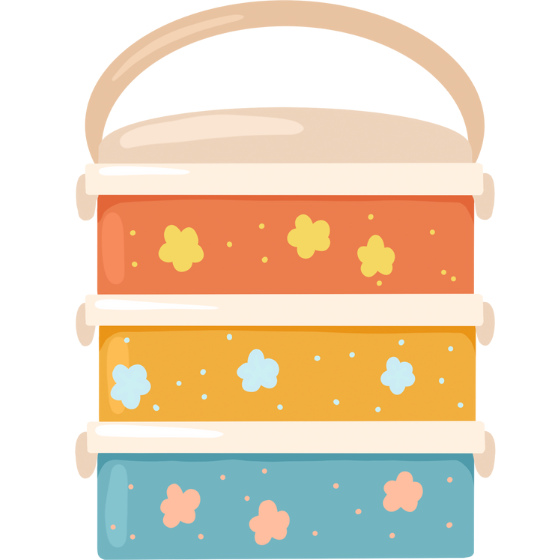
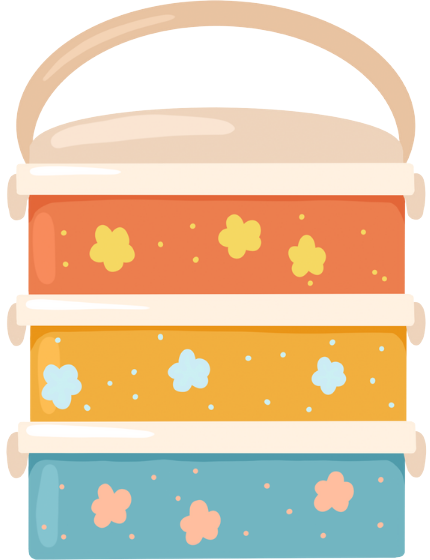
lunchimg

diff --git a/Cabriot-main/eat.html b/Cabriot-main/eat.html
@@ -214,6 +214,7 @@
     </div>
 
 
+    <!--  Bulk Order Section-->
     <section class="masthead about-cabriot" style="padding-top: 5rem; background-color: #ffffff;">
         <div class="container px-5">
             <div class="row gx-5 align-items-center reverse-columns">
@@ -251,13 +252,15 @@
     </section>
 
 
+
+    <!-- Three Coloum Section-->
     <section class="masthead home-background pt-5 pb-5" style="background-position: 0 0; background-color:#F8F9FA;">
         <div class="container py-0 px-4">
             <div class="row gx-5 ">
                 <div class="col-lg-4 mb-4 mb-lg-0" style="padding-right: calc(var(--bs-gutter-x) * 0.5); padding-left:calc(var(--bs-gutter-x) * 0.5)" >
                     <div>
                         <img src="./assets/img/1.png" alt="Logo 1" class="img-fluid mb-3 me-sm-0"
-                            style="height: 5rem; width: 5rem;">
+                            style="height: 5rem; width: 4rem;">
                     </div>
                     <h3 >Office Lunch</h3>
                     <p style="font-weight: 400;">Embrace eco-friendly dining with Cabriot Eat’s office lunch in a tiffin box.</p>
@@ -286,6 +289,7 @@
     
 
 
+    <!--Kitche  Section-->
     <section class="masthead about-cabriot" style="padding-top: 3rem; background-color: #ffffff;">
         <div class="container px-5">
             <div class="row gx-5 align-items-center">
@@ -311,6 +315,8 @@
         </div>
     </section>
 
+
+    <!-- Second 3 Coloum Section-->
     <section class="masthead home-background pt-5 pb-5" style="background-position: 0 0; background-color:#F8F9FA;">
         <div class="container py-0 px-4">
             <div class="row gx-5 ">
@@ -348,11 +354,7 @@
     </section>
     
     
-
-
-
-
-
+    <!-- Menu Section-->
     <section class="masthead about-cabriot" style="padding-top: 3rem; background-color: #ffffff;">
         <div class="container px-5">
             <div class="row gx-5 align-items-center reverse-columns">
@@ -372,6 +374,8 @@
         </div>
     </section>
 
+
+    <!-- Third 3 Coloum Section-->
     <section class="masthead home-background pt-5 pb-5" style="background-position: 0 0; background-color:#F8F9FA;">
         <div class="container py-0 px-4">
             <div class="row gx-5 ">
@@ -406,6 +410,7 @@
     </section>
     
 
+    <!-- Refining Magic section-->
     <section class="masthead about-cabriot" style="padding-top: 3rem; background-color: #ffffff;">
         <div class="container px-5">
             <div class="row gx-5 align-items-center reverse-columns">
@@ -433,8 +438,7 @@
 
 
 
-    <!-- End-->
-
+    <!-- Cetification and Hygen Section-->
     <section class="masthead home-background" style=" background-color: #F8F9FA; background-position: 0 0; padding-top:5rem">
         <div class="container px-5" >
             <div class="row gx-5 align-items-center ">
@@ -466,7 +470,7 @@
 
 
 
-
+    <!-- Footer Contact Form-->
     <section id="contactFormSection" class="bg-white" style="padding-top: 5rem; padding-bottom:5rem">
         <div class="container d-flex justify-content-center align-items-center">
             <div class="row justify-content-center w-100">
@@ -556,6 +560,9 @@
     <a href="https://wa.me/+918714858555" class="whatsapp_float" target="_blank" rel="noopener noreferrer">
         <i class="fa fa-whatsapp whatsapp-icon"></i>
     </a>
+    <!-- End Of Eat Page Section-->
+
+
     <!-- Feedback Modal-->
     <div class="modal fade" id="feedbackModal" tabindex="-1" aria-labelledby="feedbackModalLabel" aria-hidden="true">
         <div class="modal-dialog modal-dialog-centered">
@@ -739,161 +746,6 @@
                     }, 3000);
                 });
         });
-
-       
-
-
-        /*contform.addEventListener('submit', function (e) {
-            e.preventDefault();
-
-            const full_name = document.getElementById('Full_name').value;
-            const mobile_no = document.getElementById('mobile_no').value;
-            const location = document.getElementById('location').value;
-            const email = document.getElementById('email').value;
-            const type_of_service = document.getElementById('type_of_service').value;
-            const message = document.getElementById('message').value;
-
-            const body = `
-          <b>FullName : </b>${full_name}
-          <br/>
-          <b>Email : </b>${email} 
-          <br/>
-          <b>mobile No : </b>${mobile_no}
-          <br/>
-          <b>Location : </b>${location}
-          <br/>
-          <b>Type of Service : </b>${type_of_service}
-          <br>
-          <b>Message : </b>${message}
-          <br>
-        `;
-
-            // Display loading message while submitting
-            const formresult = document.getElementById('form-result'); // Assuming you have an element with this ID
-            formresult.innerHTML = "Please wait...";
-            formresult.style.textAlign = "center";
-
-            Email.send({
-                SecureToken: "5af1ed71-f4ed-419f-b932-f4ec2fb66ab6",  
-                To: 'shebin@wolfpackdigi.com',
-                From: "shebin@wolfpackdigi.com",
-                Subject: "Welcome to Wolfpack",
-                Body: body
-            }).then(
-                message => {
-                    formresult.innerHTML = "Form Submitted Successfully ";
-                    // Reset form and hide result after 3 seconds
-                    contform.reset();
-                    setTimeout(() => {
-                        formresult.innerHTML = ""
-                        result.style.display = "none";
-                    }, 3000);
-                },
-                error => {
-                    console.log(error);
-                    result.innerHTML = "Error sending message!";
-                }
-            );
-        });
-
-        formSubmit.addEventListener('submit', function (e) {
-            e.preventDefault();
-
-            const name = document.getElementById('name').value;
-            const mobile = document.getElementById('phone').value;
-            const mail = document.getElementById('mail').value;
-            const contmessage = document.getElementById('contmessage').value;
-
-            const body = `
-          <b>FullName : </b>${name}
-          <br/>
-          <b>Email : </b>${mail} 
-          <br/>
-          <b>mobile No : </b>${mobile}
-          <br/>
-          <b>Message : </b>${contmessage}
-          <br>
-        `;
-
-            // Display loading message while submitting
-            const messagePara = document.createElement('p');
-            messagePara.textContent = "Please wait...";
-            messagePara.style.textAlign = "center";
-
-            // Assuming you have a container element with ID 'nav-result'
-            const navresult = document.getElementById('nav-result');
-
-            // Display loading message while submitting
-            navresult.appendChild(messagePara);
-
-            Email.send({
-                SecureToken: "5af1ed71-f4ed-419f-b932-f4ec2fb66ab6",  // Replace with your actual secure token
-                To: 'shebin@wolfpackdigi.com',
-                From: "shebin@wolfpackdigi.com",
-                Subject: "Welcome to Wolfpack",
-                Body: body
-            }).then(
-                message => {
-                    messagePara.textContent = "Form Submitted Successfully ";
-                    // Reset form and hide result after 3 seconds (optional)
-                    formSubmit.reset();
-                    setTimeout(() => {
-                        messagePara.style.display = "none";
-                    }, 3000);
-                },
-                error => {
-                    messagePara.textContent = "Error sending message!";
-                }
-            );
-        });
-*/
-        /*formSubmit.addEventListener('submit', function (e) {
-            e.preventDefault();
-
-            const full_name = document.getElementById('name').value;
-            const mobile_no = document.getElementById('phone').value;
-            const email = document.getElementById('mail').value;
-            const message = document.getElementById('message').value;
-
-            const body = `
-          <b>FullName : </b>${full_name}
-          <br/>
-          <b>Email : </b>${email} 
-          <br/>
-          <b>mobile No : </b>${mobile_no}
-          <br/>
-          <b>Message : </b>${message}
-          <br>
-        `;
-
-            // Display loading message while submitting
-            const navresult = document.getElementById('nav-result'); // Assuming you have an element with this ID
-            navresult.innerHTML = "Please wait...";
-            navresult.style.textAlign = "center";
-
-            Email.send({
-                SecureToken: "5af1ed71-f4ed-419f-b932-f4ec2fb66ab6",  // Replace with your actual secure token
-                To: ' shebin@wolfpackdigi.com',
-                From: "knjangir24@gmail.com",
-                Subject: "Welcome to Wolfpack",
-                Body: body
-            }).then(
-                message => {
-                    navresult.innerHTML = "Form Submitted Successfully ";
-                    // Reset form and hide result after 3 seconds
-                    formSubmit.reset();
-                    setTimeout(() => {
-                        navresult.innerHTML = "";
-                        navresult.style.display = "none";
-                    }, 3000);
-                },
-                error => {
-                    console.log(error);
-                    navresult.innerHTML = "Error sending message!";
-                }
-            );
-        });*/
-
 
 
     </script>
